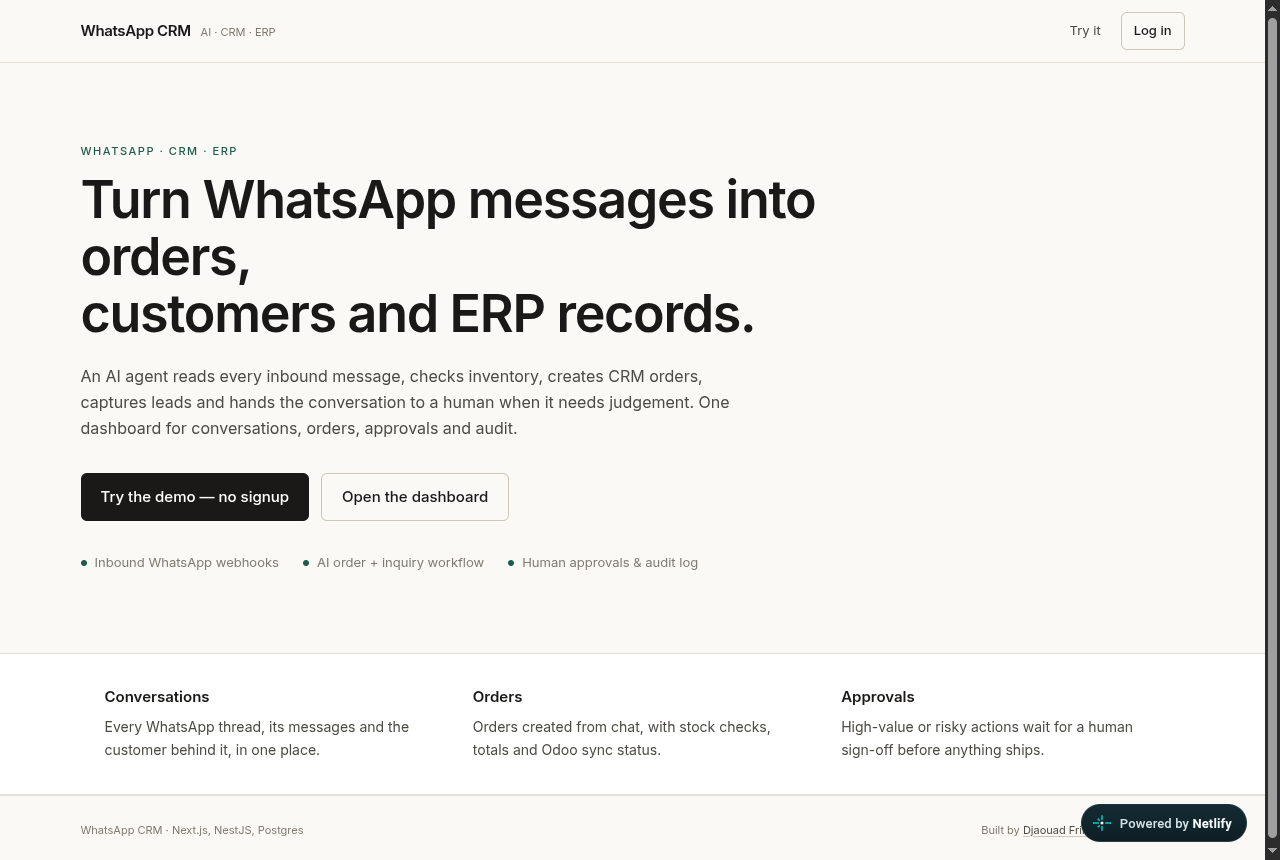
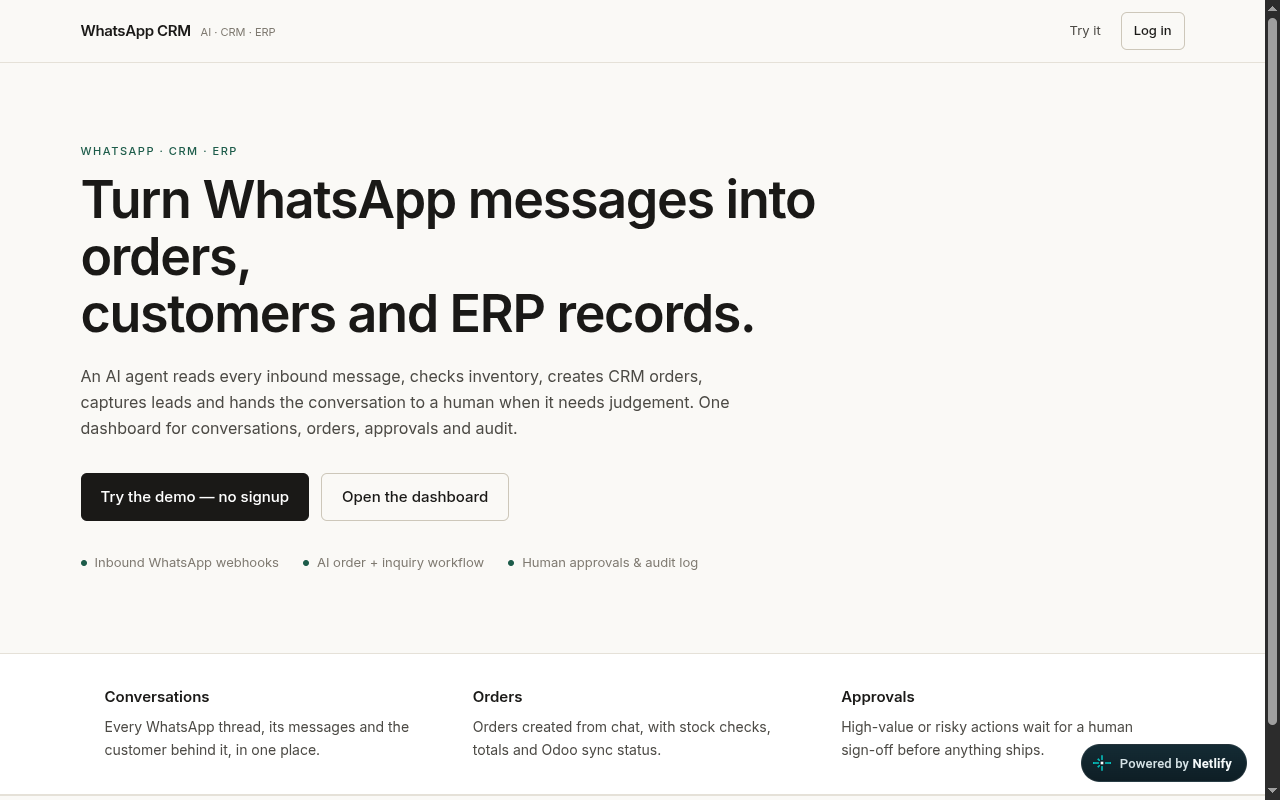
docs: real demo screenshots; same-origin API base

diff --git a/README.md b/README.md
@@ -4,6 +4,16 @@ An AI agent that **reads WhatsApp messages**, **checks stock**, **creates orders
 
 **Live demo:** [crm.djaouad.is-a.dev](https://crm.djaouad.is-a.dev) · [Try it with no signup](https://crm.djaouad.is-a.dev/try)
 
+![WhatsApp Order Capture — landing page](screenshots/hero.png)
+
+A real order created from a chat message, no signup:
+
+![Live try chat — order created](screenshots/try-chat.png)
+
+Out-of-scope input gets a safe answer instead of a broken order:
+
+![Refund request handled without a matching order](screenshots/refund-flow.png)
+
 ## Architecture
 
 ```
